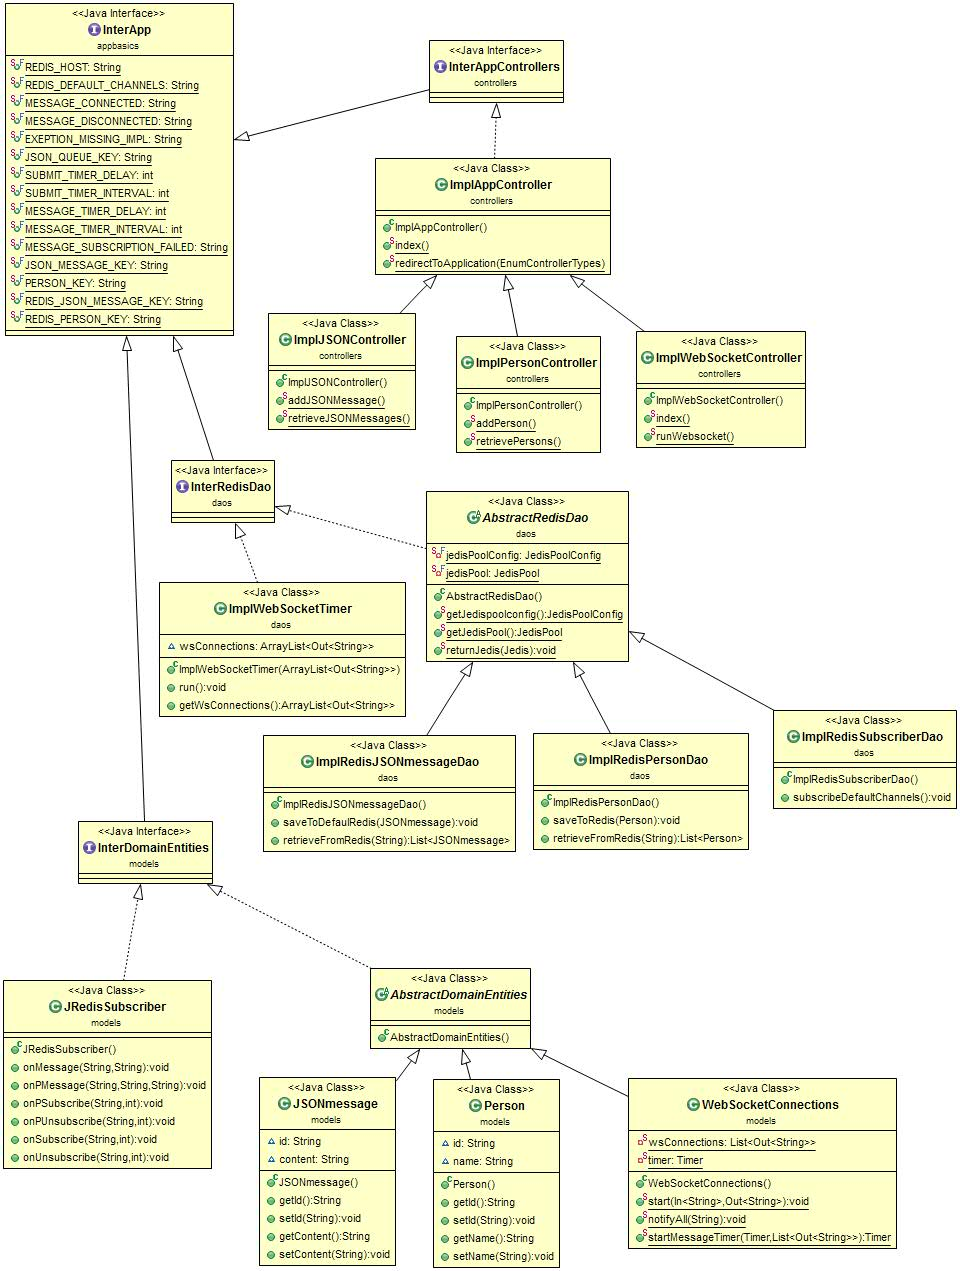
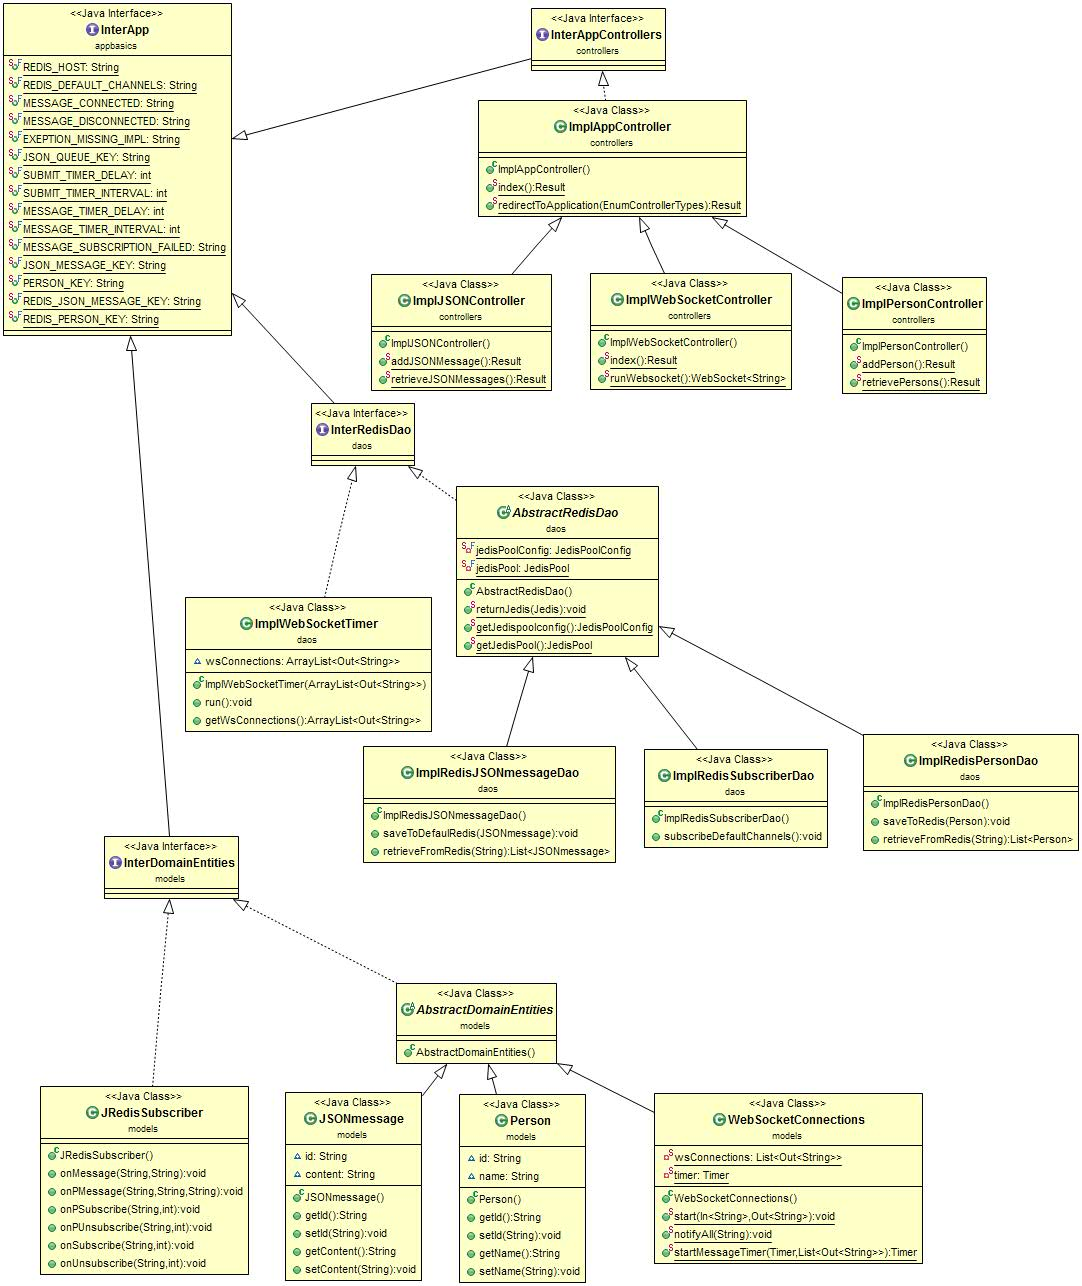
Cleand up from unsused packages, updated javadoc on code, updated UML diagram in docs folder

diff --git a/app/views/index.scala.html b/app/views/index.scala.html
@@ -20,7 +20,8 @@
 		</tr>
 		<tr>
 			<td>Setup a running env. aligned with the technologies mentioned below.</td>
-			<td>Environment was set up on local machine with Window Vista on it. Remote server TODO</td>
+			<td>Environment was set up on local machine with Window Vista on it.
+			 Installed all resources on remote server however do not have Remote Desktop Connection because it is Vista home</td>
 		</tr>
 		<tr>
 			<td>Develop the application in Play framework, in Java languages (http://www.playframework.com/)</td>
@@ -28,27 +29,27 @@
 		</tr>
 		<tr>
 			<td>A REST endpoint is taking a dummy json input, and the server puts the REST payload on a Redis pub/sub channels  (or the one the candidate knows the best for this task)</td>
-			<td>Please refer to 'Functional testing' section below.TODO pub sub</td>
+			<td>Please refer to 'Functional testing' section below and class 'ImplJSONController'</td>
 		</tr>
 		<tr>
 			<td>A Consumer is running the application and processes the freshly received message and persists the message in a NoSQL database (Redis or the one the candidate knows the best)</td>
-			<td>This is done, refer to section 'Functional testing'</td>
+			<td>Refer to section 'Functional testing' and classes ImplRedisJSONmessageDao and ImplRedisSubscriberDao</td>
 		</tr>
 		<tr>
 			<td>A REST endpoint is implemented for getting all the messages persisted in json format</td>
-			<td>Done, example: http://127.0.0.1:9000/jsonMessages</td>
+			<td>Example: <a href="http://127.0.0.1:9000/jsonMessages" target="_blank">here</a></td>
 		</tr>
 		<tr>
 			<td>The message should also be pushed through Websockets for listening browser clients at the time the message was received on the REST endpoint (http://www.playframework.com/)</td>
-			<td>Done, please refer to console output and before that click on "Web socket messages"</td>
+			<td>Plese refer to class WebSocketConnections</td>
 		</tr>
 		<tr>
 			<td>A simple html page is implemented to show the real time message delivery</td>
-			<td>Connection so websocket works, however there is a problem with receiving messages</td>
+			<td>Example:<a href="http://127.0.0.1:9000/websocketMessages" target="_blank">here</a></td>
 		</tr>
 	</table>
 	<hr />
-	<h3>Functional testing JSON to Redis</h3>
+	<h3>Functional testing JSON or String to Redis</h3>
 	<p>Please update values for json and submit to be stored in Redis (is used for functional testing)</p>
 	<form method="POST" action="@routes.ImplJSONController.addJSONMessage()">
 		<input type="text" name="content" value="updateMe" maxlength="256" class="inputField"/>
@@ -58,7 +59,7 @@
 	</form>
 	<br />
 	<hr />
-	<p>Below is just example taken from playframework and used as a base for implementation</p>
+	<p>Below is just example taken from playframework and used as a base for implementation, it is blocking</p>
 	<br />
 	<ul id ="persons"></ul>
 	<form method="POST" action="@routes.ImplPersonController.addPerson()">

diff --git a/app/daos/AbstractRedisDao.java b/app/daos/AbstractRedisDao.java
@@ -6,18 +6,34 @@ import redis.clients.jedis.JedisPool;
 import redis.clients.jedis.JedisPoolConfig;
 
 /**
+ * Responsible common data access operations, currently on Redis. 
  * @author Konstantinas
  *
  */
 public abstract class AbstractRedisDao implements InterRedisDao{
 
+	/**
+	 *  Main Redis configuration pool
+	 */
 	private static final JedisPoolConfig jedisPoolConfig;
 	
+	/**
+	 *  Redis pool
+	 */
 	private static final JedisPool jedisPool;
 	
+	//initiale Redis configuration and pool on start up
 	static{
 		jedisPoolConfig = new JedisPoolConfig();
 		jedisPool = new JedisPool(jedisPoolConfig, InterApp.REDIS_HOST); 
+	}
+	
+	/**
+	 * Convenience method for returning Jedis to pool
+	 * @param jedis, jedis to be returned to pool.
+	 */
+	public static void returnJedis(Jedis jedis){
+		jedisPool.returnResource(jedis);
 	}
 
 	public static JedisPoolConfig getJedispoolconfig() {
@@ -26,9 +42,5 @@ public abstract class AbstractRedisDao implements InterRedisDao{
 
 	public static JedisPool getJedisPool() {
 		return jedisPool;
-	}
-	
-	public static void returnJedis(Jedis jedis){
-		jedisPool.returnResource(jedis);
 	}
 }

diff --git a/app/daos/ImplWebSocketTimer.java b/app/daos/ImplWebSocketTimer.java
@@ -1,12 +1,8 @@
 package daos;
 
 import play.mvc.*;
-import play.libs.*;
-import play.libs.F.*;
-
 import java.util.*;
 
-import appbasics.InterApp;
 import redis.clients.jedis.Jedis;
 import redis.clients.jedis.JedisPool;
 
@@ -27,6 +23,10 @@ public class ImplWebSocketTimer extends TimerTask implements InterRedisDao {
 		this.wsConnections = wsConnections;
 	}
 
+	/* 
+	 * Picks up messages from Redis pushes them to all websocket connections  
+	 * @see java.util.TimerTask#run()
+	 */
 	@Override
 	public void run() {
 		JedisPool jedisPool = ImplRedisJSONmessageDao.getJedisPool();
@@ -39,7 +39,7 @@ public class ImplWebSocketTimer extends TimerTask implements InterRedisDao {
 		//there is no way to check if "out" was closed
 		List<WebSocket.Out<String>> wsClonedConnections = 
 				(ArrayList<WebSocket.Out<String>>)getWsConnections().clone(); 
-		for (WebSocket.Out<String> out : wsConnections) {
+		for (WebSocket.Out<String> out : wsClonedConnections) {
 			/* TODO fires exception java.nio.channels.ClosedChannelException
 			is fired by closed channel and is uncaught exception in playframework*/
 			out.write(message);

diff --git a/app/controllers/ImplJSONController.java b/app/controllers/ImplJSONController.java
@@ -1,19 +1,14 @@
 package controllers;
 
 import play.mvc.*;
-import views.html.*;
-import play.db.ebean.Model;
 import play.data.Form;
 import static play.libs.Json.*;
 
 import java.util.List;
-import java.util.Set;
 
-import daos.AbstractRedisDao;
 import daos.ImplRedisJSONmessageDao;
 import appbasics.EnumControllerTypes;
 import models.JSONmessage;
-import models.WebSocketConnections;
 
 /**
  * Controls JSONmessage Entity from frontend perspective and passes it to backend
@@ -37,7 +32,6 @@ public class ImplJSONController extends ImplAppController {
 	 * @return HTTP 200 and JSON output
 	 */
 	public static Result retrieveJSONMessages() {
-		JSONmessage jsonMessage = new JSONmessage();
 		List<JSONmessage> jsonMessages = new ImplRedisJSONmessageDao().retrieveFromRedis(REDIS_JSON_MESSAGE_KEY);
 		return ok(toJson(jsonMessages));
 	}

diff --git a/app/models/JRedisSubscriber.java b/app/models/JRedisSubscriber.java
@@ -11,12 +11,17 @@ import redis.clients.jedis.JedisPubSub;
  */
 public class JRedisSubscriber extends JedisPubSub implements InterDomainEntities {
 	
+	/* (non-Javadoc)
+	 * @see redis.clients.jedis.JedisPubSub#onMessage(java.lang.String, java.lang.String)
+	 */
 	@Override
 	public void onMessage(String channel, String message) {
 		if(REDIS_DEFAULT_CHANNELS.equals(channel)){
 			JedisPool jedisPool = ImplRedisJSONmessageDao.getJedisPool();
 			Jedis jedis = jedisPool.getResource();
+			//place at the end of the list
 			jedis.rpush(JSON_QUEUE_KEY, message);
+			//save as separate string with unique id
 			jedis.set(JSON_MESSAGE_KEY + Long.toString(System.currentTimeMillis()), message);
 			ImplRedisJSONmessageDao.returnJedis(jedis);
 			// unsubscribe here due to dedicated sunscription thread 

diff --git a/app/controllers/ImplPersonController.java b/app/controllers/ImplPersonController.java
@@ -2,13 +2,10 @@ package controllers;
 
 
 import play.mvc.*;
-import views.html.*;
-import play.db.ebean.Model;
 import play.data.Form;
 import static play.libs.Json.*;
 
 import java.util.List;
-import java.util.Set;
 
 import daos.ImplRedisPersonDao;
 import appbasics.EnumControllerTypes;
@@ -38,7 +35,6 @@ public class ImplPersonController extends ImplAppController {
 	 * @return HTTP 200 and JSON output
 	 */
 	public static Result retrievePersons() {
-		Person person = new Person();
 		List<Person> persons = new ImplRedisPersonDao().retrieveFromRedis(REDIS_PERSON_KEY);
 		return ok(toJson(persons));
 	}

diff --git a/app/models/WebSocketConnections.java b/app/models/WebSocketConnections.java
@@ -1,12 +1,8 @@
 package models;
 
 import play.mvc.*;
-import play.libs.*;
 import play.libs.F.*;
-import redis.clients.jedis.Jedis;
-
 import java.util.*;
-
 import daos.ImplWebSocketTimer;
 import appbasics.InterApp;
 
@@ -36,7 +32,7 @@ public class WebSocketConnections extends AbstractDomainEntities {
 		//add to list of connections
 		wsConnections.add(out);
         
-		//start timer for sending new message to connections
+		//start/restart timer for sending new message to connections on newly appearing connection
 		startMessageTimer(timer, wsConnections);
 
 		//Registers a message callback.

diff --git a/app/daos/ImplRedisSubscriberDao.java b/app/daos/ImplRedisSubscriberDao.java
@@ -4,13 +4,13 @@ import models.JRedisSubscriber;
 import redis.clients.jedis.Jedis;
 
 /**
+ * Responsible for subscribing to channels on Redis
  * @author Konstantinas
- *
  */
 public class ImplRedisSubscriberDao extends AbstractRedisDao {
 		
 	/**
-	 * Executed dedicated subscription. Runs in separate thread because
+	 * Executes dedicated subscription. Runs in separate thread because
 	 * it is blocking operation
 	 */
 	public void subscribeDefaultChannels(){

diff --git a/app/daos/ImplRedisJSONmessageDao.java b/app/daos/ImplRedisJSONmessageDao.java
@@ -5,14 +5,12 @@ import java.util.Iterator;
 import java.util.List;
 import java.util.Set;
 
-import models.JRedisSubscriber;
 import models.JSONmessage;
 import redis.clients.jedis.Jedis;
 import redis.clients.jedis.JedisPool;
-import redis.clients.jedis.JedisPubSub;
-import redis.clients.jedis.exceptions.JedisConnectionException;
 
 /**
+ * Responsible for data access operations for JSONmessage
  * @author Konstantinas
  *
  */

diff --git a/app/controllers/ImplWebSocketController.java b/app/controllers/ImplWebSocketController.java
@@ -2,16 +2,8 @@ package controllers;
 
 import play.mvc.*;
 import views.html.*;
-import play.libs.*;
-
-import java.util.List;
 
 import models.WebSocketConnections;
-import daos.ImplRedisJSONmessageDao;
-import appbasics.InterApp;
-import redis.clients.jedis.Jedis;
-import redis.clients.jedis.JedisPool;
-import redis.clients.jedis.JedisPoolConfig;
 
 /**
  * Controls rendering of web socket messages page and serves messages

diff --git a/app/daos/ImplRedisPersonDao.java b/app/daos/ImplRedisPersonDao.java
@@ -9,6 +9,10 @@ import redis.clients.jedis.Jedis;
 import redis.clients.jedis.JedisPool;
 import models.Person;
 
+/**
+ * Responsible for data access operations for Person object
+ * @author Konstantinas
+ */
 public class ImplRedisPersonDao extends AbstractRedisDao {
 
 	/**
@@ -52,5 +56,4 @@ public class ImplRedisPersonDao extends AbstractRedisDao {
 		returnJedis(jedis);
 		return persons;
 	}
-
 }

diff --git a/app/controllers/ImplAppController.java b/app/controllers/ImplAppController.java
@@ -1,11 +1,6 @@
 package controllers;
 
-import java.util.ArrayList;
-import java.util.Timer;
-
-import daos.ImplWebSocketTimer;
 import appbasics.EnumControllerTypes;
-import appbasics.InterApp;
 import play.mvc.*;
 import views.html.*;
 
